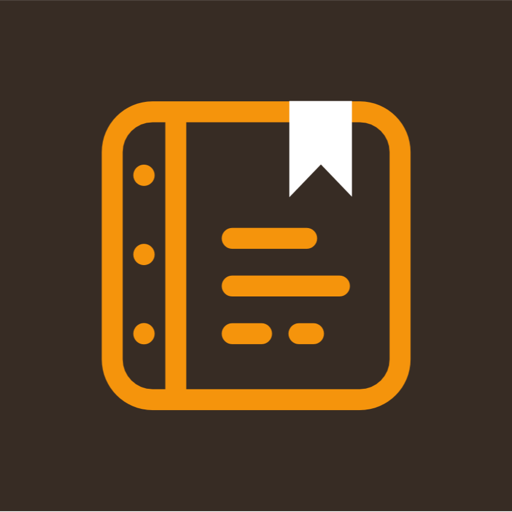
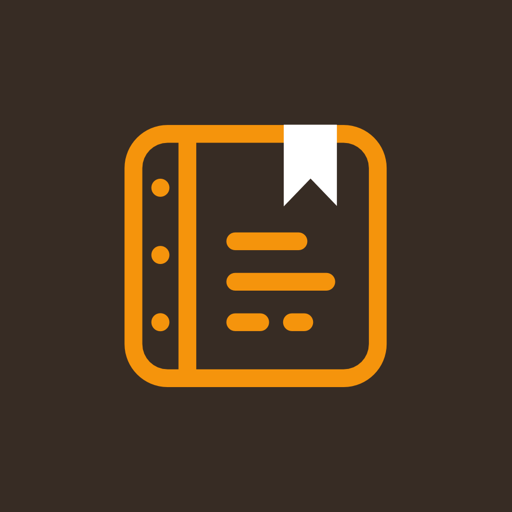
Add files via upload

Changed region(s): [[0.1875, 0.1875, 0.8125, 0.8125], [0.4375, 0.5312, 0.6875, 0.6875], [0.4375, 0.4375, 0.625, 0.5]]

diff --git a/index.html b/index.html
@@ -8474,12 +8474,18 @@
         const svgMarkup = `
           <svg xmlns="http://www.w3.org/2000/svg" width="128" height="128" viewBox="0 0 128 128">
             <rect x="2" y="2" width="124" height="124" rx="28" fill="#2e261a" stroke="#f59e0b" stroke-width="4" stroke-opacity="0.65"/>
-            <g transform="translate(24, 24) scale(3.33)" fill="none" stroke="#f59e0b" stroke-width="2" stroke-linecap="round" stroke-linejoin="round">
-              <path d="M20.2 6 3 11l-.9-2.4c-.3-1.1.3-2.2 1.3-2.5l13.5-4c1.1-.3 2.2.3 2.5 1.3Z"/>
-              <path d="m6.2 5.3 3.1 3.9"/>
-              <path d="m12.4 3.4 3.1 4"/>
-              <path d="M3 11h18v8a2 2 0 0 1-2 2H5a2 2 0 0 1-2-2Z"/>
-            </g>
+            <svg x="17" y="17" width="94" height="94" viewBox="88 86 336 336" fill="none">
+              <rect x="114" y="112" width="284" height="284" rx="44" ry="44" fill="none" stroke="#f59e0b" stroke-width="21"/>
+              <rect x="167" y="112" width="21" height="284" fill="#f59e0b"/>
+              <circle cx="145.5" cy="175" r="10.5" fill="#f59e0b"/>
+              <circle cx="145.5" cy="254" r="10.5" fill="#f59e0b"/>
+              <circle cx="145.5" cy="333" r="10.5" fill="#f59e0b"/>
+              <polygon points="289,101.5 351,101.5 351,197 320,164 289,197" fill="#ffffff"/>
+              <rect x="222" y="228" width="95" height="21" rx="10.5" fill="#f59e0b"/>
+              <rect x="222" y="275" width="127" height="21" rx="10.5" fill="#f59e0b"/>
+              <rect x="222" y="322" width="50" height="21" rx="10.5" fill="#f59e0b"/>
+              <rect x="288" y="322" width="36" height="21" rx="10.5" fill="#f59e0b"/>
+            </svg>
           </svg>
         `;
         const img = new Image();
